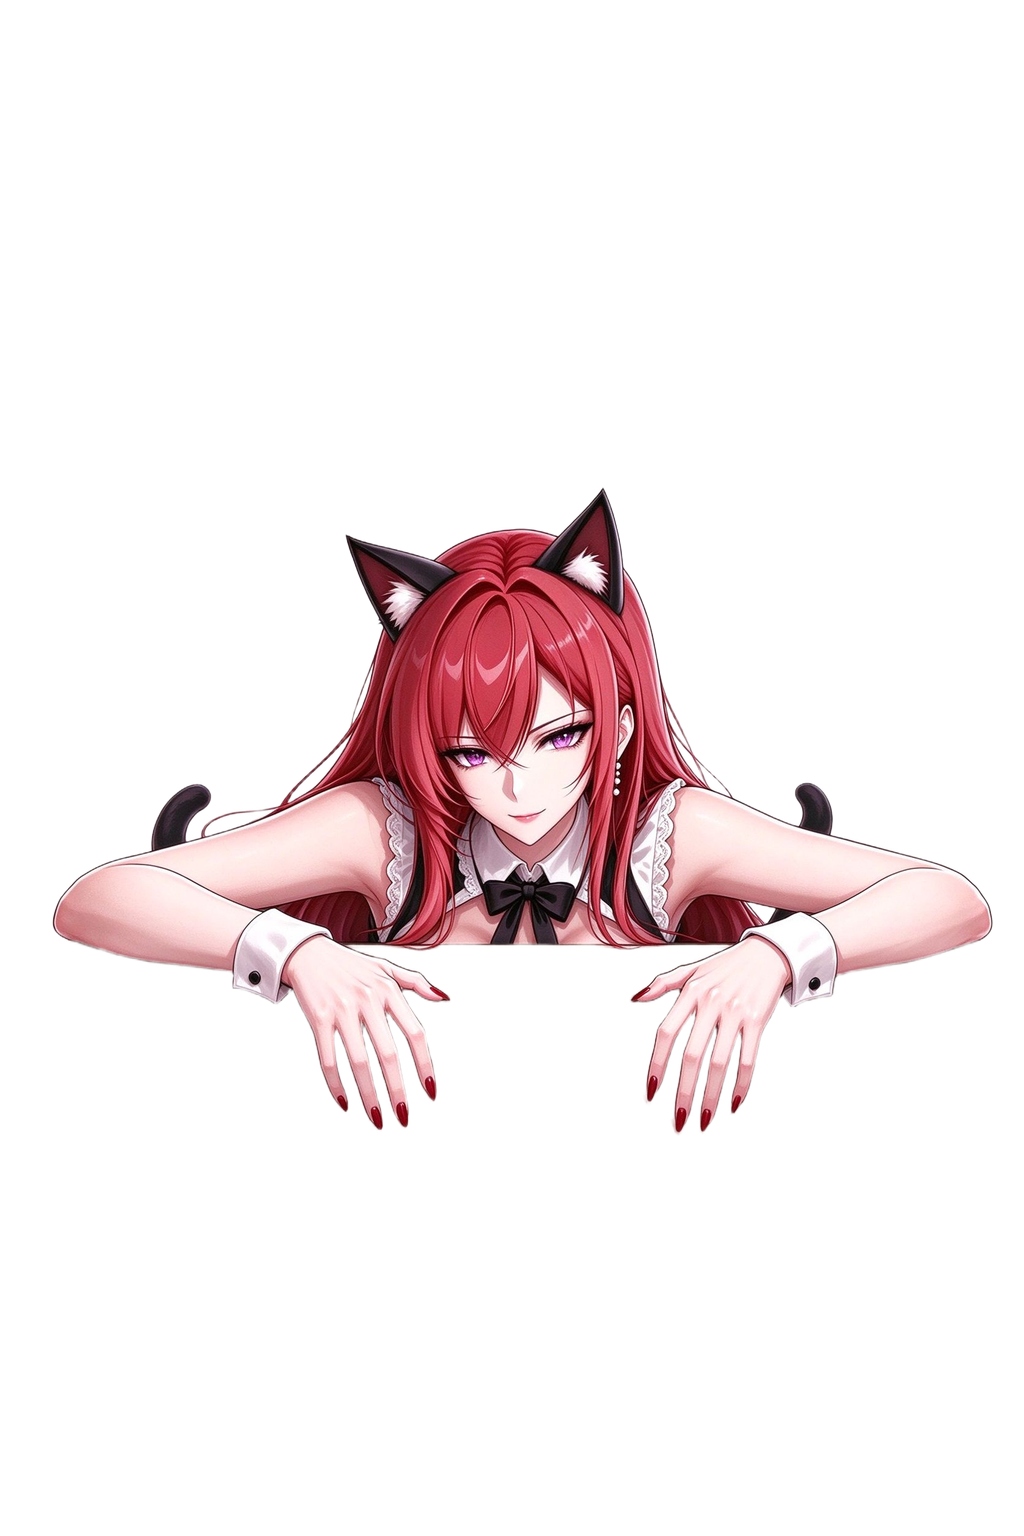
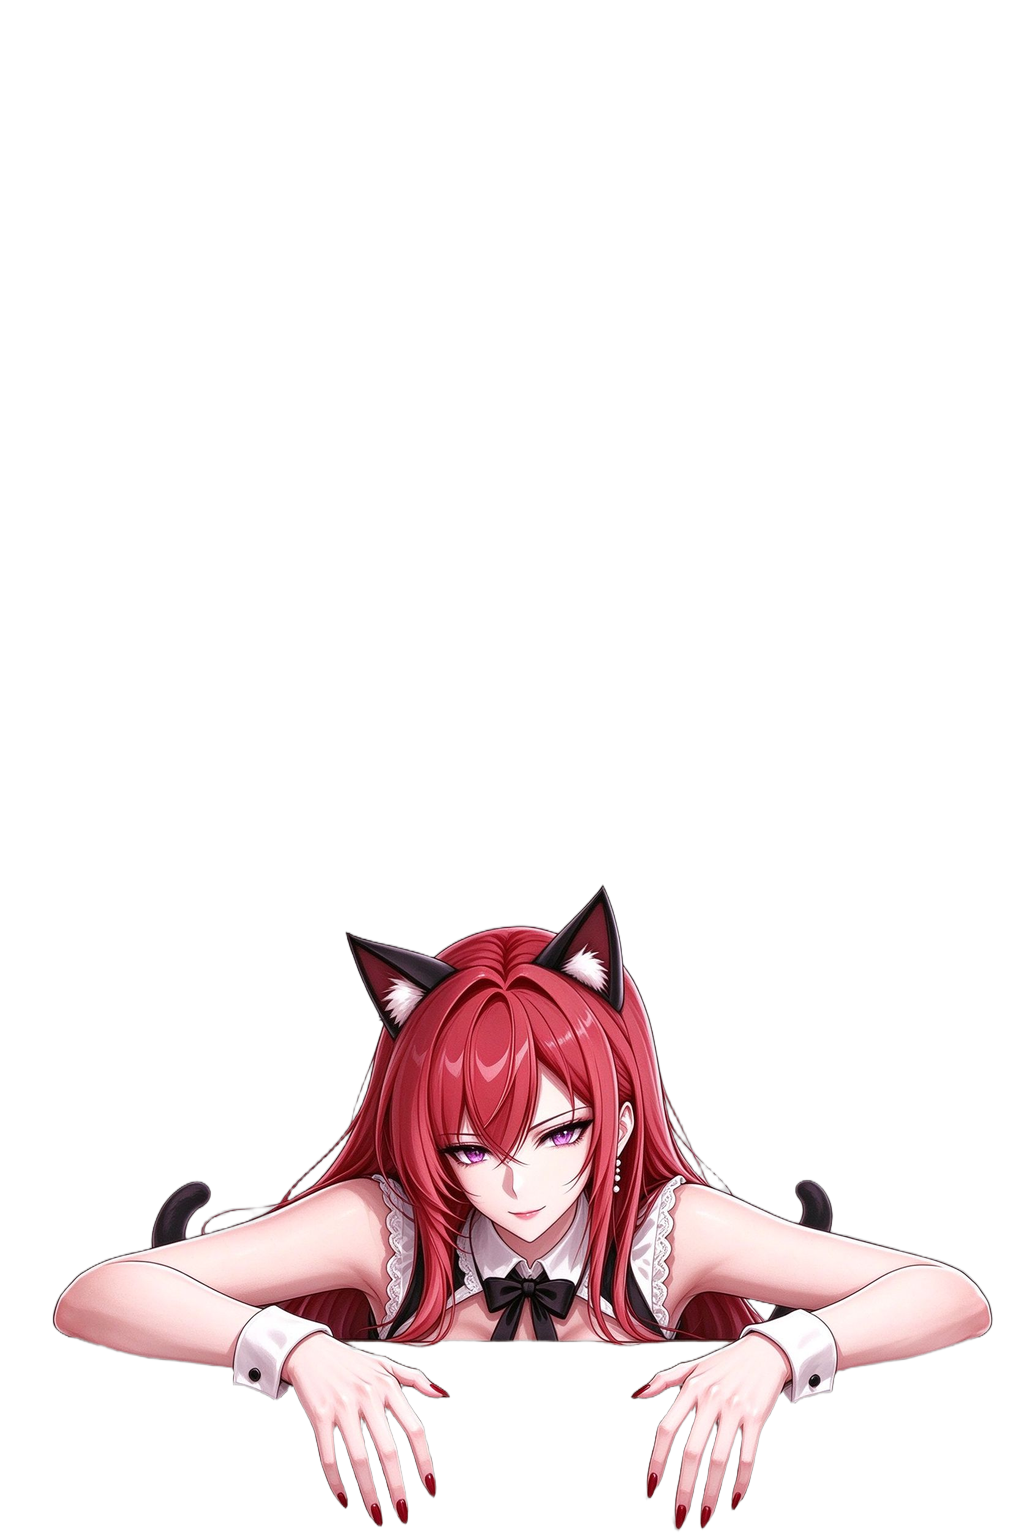
fix(hud): v6.0.25 三修+诊断 —— ①撤销contentMode=Bottom(萝莉底部趴墙不再放大数倍) ②趴墙图内容平移贴底/贴缘(rabit/cat wall下移贴画布底、cat_wall_v右移贴右缘,修复趴墙悬屏中看起来像没吸附) ③猫娘胸部动效cy上移到30%(兔娘35%不变,按角色区分) ④加[HUDsnap]吸附诊断日志(松手输出minD/reach/半宽半高,连手机log show定位吸附根因) + bump 6.0.25

Changed region(s): [[0.0312, 0.3125, 0.9688, 1.0]]

diff --git a/HUD/sources/HUDRootViewController.mm b/HUD/sources/HUDRootViewController.mm
@@ -114,6 +114,7 @@ extern "C" const char *g_hud_char;
     int _liftIdx;              // 悬空帧交替序号
     CGFloat _dragHalfW, _dragHalfH;   // v6.0.21：拖拽时帧的半宽/半高（吸附判定用拖拽帧尺寸，避免恢复待机后窄帧误判不贴边）
     BOOL _enableChest;         // v6.0.24：是否启用胸部呼吸动效（仅兔娘 rabit / 猫娘 cat，萝莉 girl 不做）
+    BOOL _isCatChar;           // v6.0.25：当前角色是猫娘（身材最修长，胸乳位置更高，用于胸部动效定位）
     CALayer *_chestLayer;   // v6.0.21：左胸呼吸层（mask 只显示左胸条带，心跳式脉冲鼓起，不再整身缩放）
     CALayer *_chestLayerR;  // v6.0.23：右胸呼吸层（mask 只显示右胸条带，与左胸同步脉冲）
 }
@@ -132,6 +133,7 @@ extern "C" const char *g_hud_char;
         // 用 s 放大后包围盒面积≈1.1万：rabit s=1.4(H210/W52)、cat s=1.2(H180/W60)、girl s=1.0(H150/W73)，三者面积差<1%）
         _charScale = isRabbit ? 1.2f : (isCat ? 1.4f : 1.0f);   // v6.0.15：猫娘1.4 高于 兔娘1.2 高于 萝莉1.0
         _enableChest = (isCat || isRabbit);   // v6.0.24：胸部呼吸仅兔娘/猫娘（萝莉 girl 不做）
+        _isCatChar = isCat;                   // v6.0.25：标记猫娘（胸乳位置更高）
         UIImage *idle  = [UIImage imageNamed:[NSString stringWithFormat:@"%@_idle", prefix]];
         UIImage *happy = [UIImage imageNamed:[NSString stringWithFormat:@"%@_happy", prefix]];
         UIImage *think = [UIImage imageNamed:[NSString stringWithFormat:@"%@_think", prefix]];
@@ -278,7 +280,8 @@ extern "C" const char *g_hud_char;
     CGFloat W = _girlView.bounds.size.width;
     CGFloat H = _girlView.bounds.size.height;
     if (W < 1 || H < 1) return;
-    CGFloat cy = H * 0.35f;            // v6.0.24：胸乳中心（修长角色，原0.42偏低落到腰腹）
+    // v6.0.25：胸乳位置按角色——兔娘身材修长胸乳≈35%；猫娘最修长(1.4)胸乳更高≈30%（原0.35对猫娘仍落到肚子）
+    CGFloat cy = _isCatChar ? H * 0.30f : H * 0.35f;
     CGFloat r = H * 0.075f;            // 胸乳圆半径（圆形柔边直径=0.15H）
     // 左胸 / 右胸（各自圆形柔边 mask，缩放锚点=各自胸乳圆心）
     _chestLayer  = [self _makeChestLayer:CGPointMake(W * 0.32f, cy) radius:r];
@@ -460,6 +463,11 @@ extern "C" const char *g_hud_char;
     CGFloat clampH = _dragHalfW > 0 ? _dragHalfW : _girlView.frame.size.width / 2;
     CGFloat clampV = _dragHalfH > 0 ? _dragHalfH : _girlView.frame.size.height / 2;
     CGFloat reach = (minD == dL || minD == dR) ? clampH : clampV;   // v6.0.14：按方向用对应半尺寸（左右半宽/上下半高）、去掉+10容差——真正贴边才吸附，不提前虹吸
+    // v6.0.25：吸附诊断日志（每次松手输出一行，连手机 log show 定位吸附根因）
+    NSLog(@"[HUDsnap] screen=%@ charScale=%.2f size=%.1f lift=%lu dragHW=(%.1f,%.1f) center=(%.1f,%.1f) dL=%.1f dR=%.1f dT=%.1f dB=%.1f clampH=%.1f clampV=%.1f reach=%.1f minD=%.1f",
+          NSStringFromCGSize([UIScreen mainScreen].bounds.size), _charScale, (CGFloat)g_hud_size,
+          (unsigned long)_liftFrames.count, _dragHalfW, _dragHalfH, c.x, c.y,
+          dL, dR, dT, dB, clampH, clampV, reach, minD);
     if (minD > reach) { _girlView.transform = CGAffineTransformIdentity; [self _startBreathing]; return; }   // 未贴边：待机并确保漂浮在
     UIImage *wallImg = nil;
     if (minD == dL || minD == dR) wallImg = _wallImageV;   // 左/右：竖直墙沿图
@@ -476,9 +484,8 @@ extern "C" const char *g_hud_char;
         : (CGFloat)g_hud_size * _charScale * 0.5;
     CGFloat wa = (wallImg.size.height > 0) ? (wallImg.size.width / wallImg.size.height) : 1.0;
     _girlView.bounds = CGRectMake(0, 0, wallH * wa, wallH);
-    // v6.0.24：顶部/底部趴墙让 wall 图内容贴底对齐显示（rabit/cat 的 wall 图角色画在画面中部、手扒底缘，
-    // 默认 aspectFit 居中显示会"悬在屏底上方、没贴实"；Bottom 对齐让角色贴到屏幕底边、趴墙探头更实）
-    if (wallImg == _wallImage) _girlView.contentMode = UIViewContentModeBottom;
+    // v6.0.24 撤销：UIViewContentModeBottom 是"内容不缩放、底部对齐"，会让 wall 原图(1024×1536)按原尺寸贴底→放大数倍。
+    // 改用 aspectFit 默认居中显示（v6.0.23 行为）；贴底对齐改用下面 roto 显示不在此处理（吸附/尺寸已由 bounds 决定）。
     // 吸附左缘→镜像面向左墙；右缘→正常面向右墙；上下→保持原方向
     if (minD == dL)      { c.x = _girlView.frame.size.width / 2; _girlView.transform = CGAffineTransformMakeScale(-1, 1); }
     else if (minD == dR) { c.x = v.width - _girlView.frame.size.width / 2; _girlView.transform = CGAffineTransformIdentity; }
